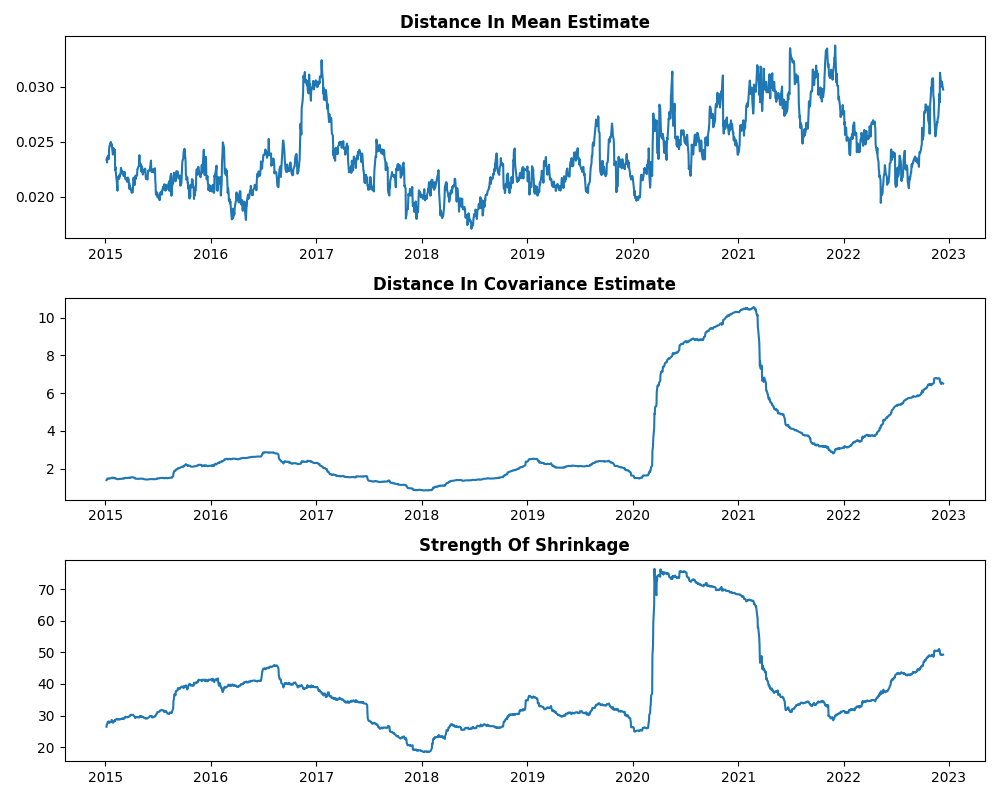
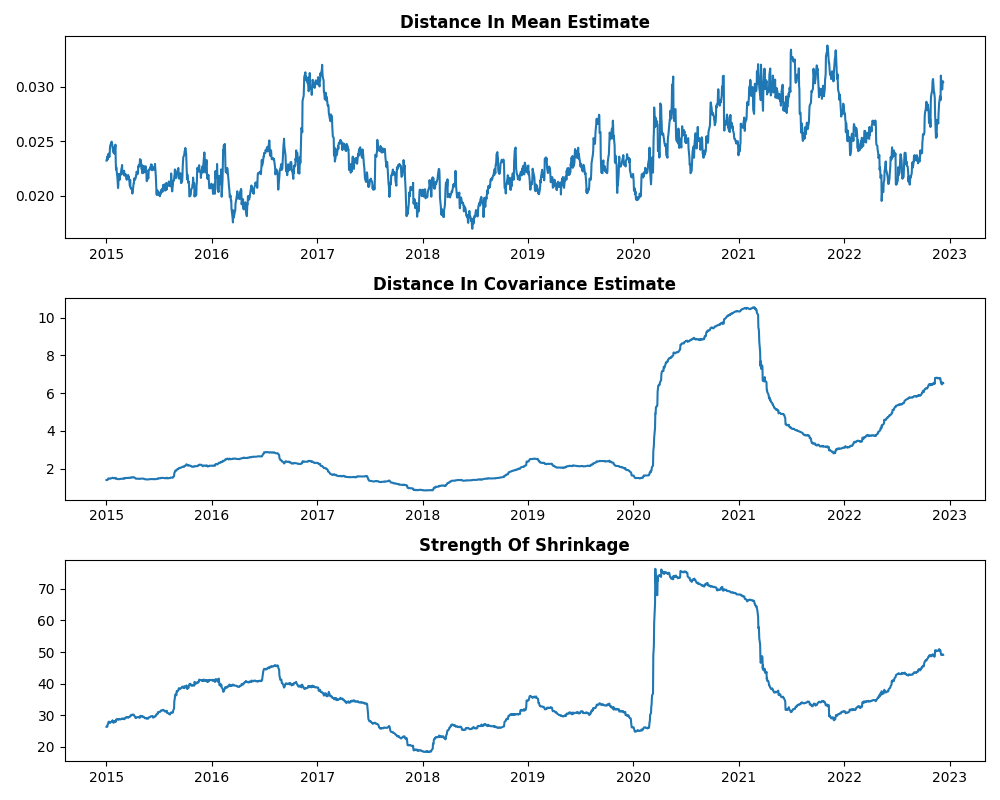
Update main.py

diff --git a/src/main.py b/src/main.py
@@ -7,10 +7,10 @@ from matplotlib import pyplot as plt
 import matplotlib.dates as mdates
 
 
-def plot_results(stock_return: pd.DataFrame, factor_data: pd.DataFrame, length: int, stock_slice: int):
+def plot_results(stock_return: pd.DataFrame, factor_data: pd.DataFrame, length: int, stock_slice: int, sample_size=251, rebalance_freq: int = 1):
     y, z, g = [], [], []
     for i in range(length):
-        time_period = (i, 252 + i)
+        time_period = (i * rebalance_freq, sample_size + i * rebalance_freq)
         miu, cov_mat, g_star = Bayesian_Posteriors(
             factor_data.iloc[time_period[0] : time_period[1], :], stock_return.iloc[time_period[0] : time_period[1], ::stock_slice]
         ).posterior_predictive()
@@ -21,7 +21,7 @@ def plot_results(stock_return: pd.DataFrame, factor_data: pd.DataFrame, length: 
         g.append(g_star)
         print("Loop", i + 1, "done.")
 
-    x = pd.to_datetime(factor_data.index[252 : 252 + length])
+    x = pd.to_datetime(factor_data.index[sample_size : sample_size + length * rebalance_freq])
     plt.figure(figsize=(10, 8))
     plt.subplot(3, 1, 1)
     plt.plot(x, y)
